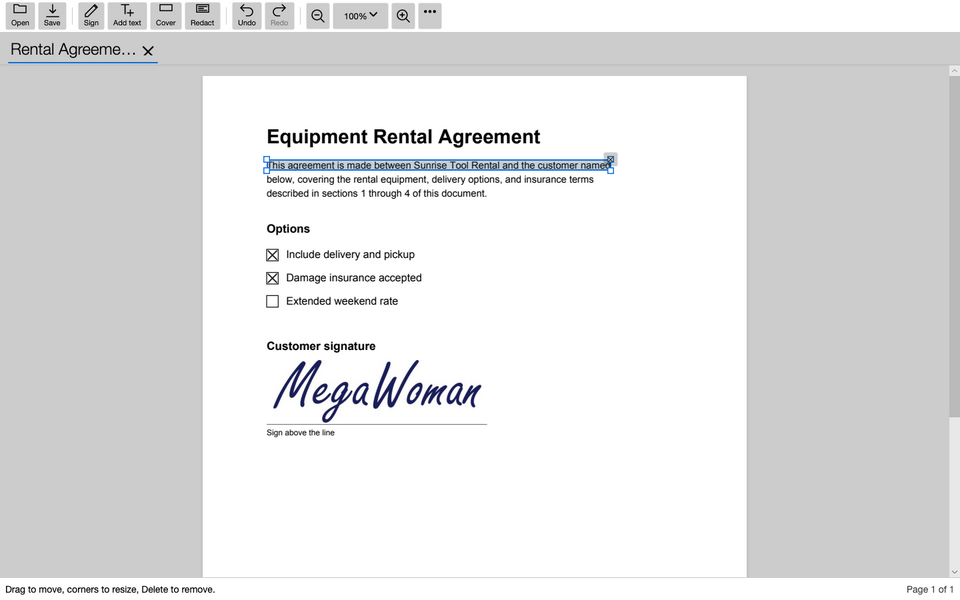
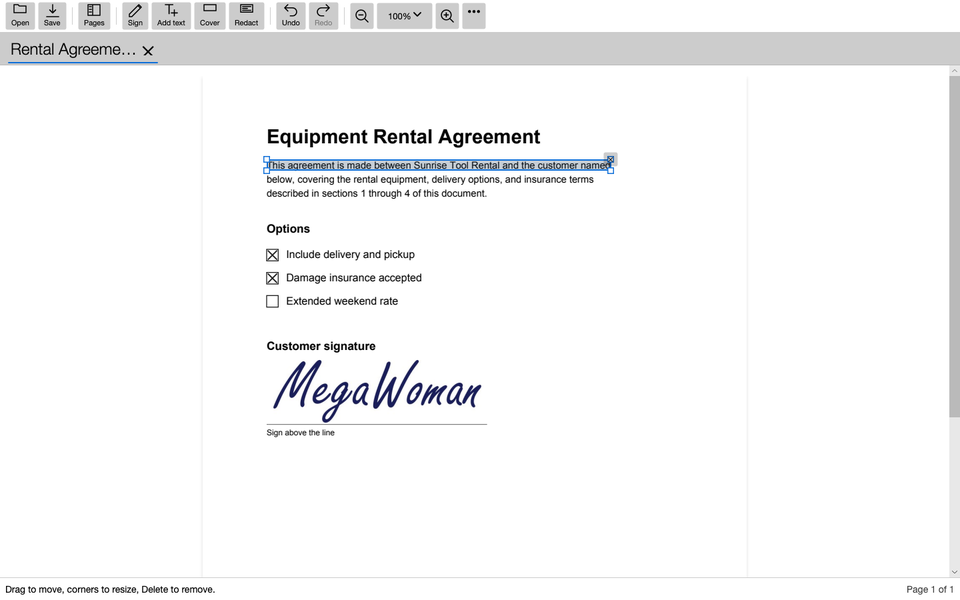
Docs gate (§2.7) for 2.2.0: README, TESTING, website New in 2.2
README: a line for reading mode and the Pages pane, beside tabs and Find, matching
the pattern the 2.1.1 docs gate used for its own headline features.

TESTING: two new "What to test" entries, Reading mode and Pages, ahead of the
existing Save As -> Markdown entry (headline features lead, per Dave's #613
ordering). Also drops "No page add/remove/reorder, no merging — out of scope for
1.0" from Known limitations — 2.2's page tools (rotate, delete, reorder, insert
blank, insert from a file, extract) make that line false. Left the rest of
TESTING.md, including the corpus-battery run log, untouched — another agent is
adding the thirteenth (release-commit) gate run there tonight.

Website (website/megapdf/index.html), not deployed (§3, website is a post-release
step):
- New in 2.2 above New in 2.1 (now the dimmed "prev" block): reading mode, page
  tools, zoom anchored on the focal point, the iPad's own toolbar. Dropped the
  New in 2.0 block entirely rather than carrying three generations — matches "a
  New in 2.2 block above the previous release's" literally, and the .whatsnew.prev
  CSS only styles one dimmed tier. "Very large PDFs" and "one row of tools" (2.0
  items with nothing newer repeating them) are the one real loss; flagged for
  Dave rather than invented back in.
- shot-desktop.png replaced with the 2.2 Mac capture set's redact pose
  (docs/qa/captures-2.2/macos-screenshots/en/light-06-redact.png, Lanczos to
[…]

diff --git a/website/megapdf/index.html b/website/megapdf/index.html
@@ -192,7 +192,41 @@
             </div>
         </section>
 
-        <section class="whatsnew" aria-label="New in MegaPDF 2.1">
+        <section class="whatsnew" aria-label="New in MegaPDF 2.2">
+            <h2 class="sec">New in 2.2</h2>
+            <div class="features">
+                <article class="feature">
+                    <h3><span class="dot">◐</span> Reading mode</h3>
+                    <p>One tap or click takes the toolbars — and the side pane on the
+                       desktops — off the screen and leaves the page. A small bar carries
+                       the page number and the way back. Page colours sit beside it:
+                       Normal, Sepia for a long read, or Night for a dark room — and
+                       <em>Open documents in reading mode</em> starts every one that way.</p>
+                </article>
+                <article class="feature">
+                    <h3><span class="dot">⊞</span> Page tools</h3>
+                    <p>A Pages pane puts the document's pages in front of you: rotate
+                       one that was scanned sideways, delete it, drag pages into a
+                       different order, insert a blank page or another PDF's pages, or
+                       save the pages you picked as a file of their own. Each is one
+                       step in the undo history.</p>
+                </article>
+                <article class="feature">
+                    <h3><span class="dot">⊕</span> Zoom where you're looking</h3>
+                    <p>Zoom now holds the point you're pointing at instead of the
+                       corner of the page, however you ask for it — the menu, the
+                       keyboard, a pinch, or the wheel.</p>
+                </article>
+                <article class="feature">
+                    <h3><span class="dot">▤</span> A toolbar made for the iPad</h3>
+                    <p>The everyday tools now sit in a wide row of their own under the
+                       navigation bar, each with its title beside its icon, instead of
+                       quietly running the iPhone's layout stretched wide.</p>
+                </article>
+            </div>
+        </section>
+
+        <section class="whatsnew prev" aria-label="New in MegaPDF 2.1">
             <h2 class="sec">New in 2.1</h2>
             <div class="features">
                 <article class="feature">
@@ -225,51 +259,6 @@
                        one undo step, Clear all marks drops every mark at once, and a
                        mark no longer outlives the document it was made on. Nothing is
                        removed until you save.</p>
-                </article>
-            </div>
-        </section>
-
-        <section class="whatsnew prev" aria-label="New in MegaPDF 2.0">
-            <h2 class="sec">New in 2.0</h2>
-            <div class="features">
-                <article class="feature">
-                    <h3><span class="dot">■</span> Redact, and it really is gone</h3>
-                    <p>Mark what has to come out — a name, an address, a picture — and
-                       MegaPDF takes it out of the file rather than covering it over.
-                       What was underneath is gone: no other app can copy it or search
-                       for it. On the desktop, whiteout (Cover on the Mac) still only
-                       covers, and now says so.</p>
-                </article>
-                <article class="feature">
-                    <h3><span class="dot">✏</span> Fix the document's own text, far more often</h3>
-                    <p>MegaPDF used to refuse a correction when it could not promise the
-                       rest of the page would stay put. It now makes those changes. Over
-                       a 22,000-edit test run, every one of the 112 edits it used to
-                       refuse goes through, and none of them disturbs the page.</p>
-                </article>
-                <article class="feature">
-                    <h3><span class="dot">⧉</span> Very large PDFs</h3>
-                    <p>A 2.5 GB file used to take a minute to open and gigabytes of
-                       memory. It now opens straight away. Banner-size pages measure at
-                       their real size, and pages full of pictures draw several times
-                       faster.</p>
-                </article>
-                <article class="feature">
-                    <h3><span class="dot">🔑</span> Protected PDFs</h3>
-                    <p>Open one with its password. If its owner restricted what may be
-                       changed, MegaPDF respects that and says so, and the owner password
-                       unlocks it. You can also set a password on a document, change it,
-                       or remove it.</p>
-                </article>
-                <article class="feature">
-                    <h3><span class="dot">▤</span> One row of tools</h3>
-                    <p>The toolbar is a single row, with the pickers appearing beside the
-                       tool they belong to and everything else under More.</p>
-                </article>
-                <article class="feature">
-                    <h3><span class="dot">🇫🇷</span> MegaPDF speaks French</h3>
-                    <p>Canadian and European French throughout the app. It follows your
-                       device's language.</p>
                 </article>
             </div>
         </section>

diff --git a/TESTING.md b/TESTING.md
@@ -38,6 +38,20 @@ unsaved changes in two tabs and you should be asked about each; answer Cancel on
 second and the first must still be there, edits and all. Kill the app with three tabs
 open and the next launch should offer to restore each of them, into its own tab.
 
+**Reading mode** — the View menu, or **Ctrl+H**, takes the toolbars and the side pane
+off the screen and leaves the page. A small floating bar carries the page number and
+the way back; click the page number to jump to one directly. Esc (or the bar's own
+button) returns to the normal view. Settings (⚙) has page colours — **Normal**,
+**Sepia** for a long read, **Night** for a dark room (night inverts pictures too,
+which is deliberate) — and **Open documents in reading mode**, which should make
+every document you open afterward start this way.
+
+**Pages** — the Pages button opens a pane of page thumbnails. Rotate a page that was
+scanned sideways, delete one, drag pages into a different order, insert a blank page,
+insert another PDF's pages, or save the pages you picked out as a file of their own.
+Each of those is one step in the undo history — Ctrl+Z should put the document back
+exactly as it was, one operation at a time.
+
 **Save As → Markdown** — Save As offers **Markdown document** beside PDF document.
 Pick it and you get the document's text as a `.md` file: headings, paragraphs, lists,
 and the values you filled in. It is an export, not a save: the busy strip says
@@ -148,7 +162,6 @@ Scroll through a long document; pages should appear as you reach them.
 - Editing text sometimes substitutes a similar font, with a notice — expected when
   the document doesn't embed a complete font.
 - Password-protected PDFs show an error instead of a password prompt.
-- No page add/remove/reorder, no merging — out of scope for 1.0.
 - **Redact refuses rather than half-finishes.** Some documents draw part of a page from a
   shared block MegaPDF cannot take apart safely; marking inside one gets "Nothing was
   removed" and an explanation. Removing nothing is the deliberate choice: a file that

diff --git a/README.md b/README.md
@@ -19,6 +19,10 @@ Also included, because long documents need it: **Find** (the toolbar button, or
 walks through them. Documents open as **tabs** in one window on Windows, the Mac
 and Linux, and a PDF opened from the file manager joins the window you already have.
 
+**Reading mode** takes the toolbars off the screen and leaves the page, in Normal,
+Sepia or Night colours, on every platform. The **Pages** pane rotates, deletes,
+reorders, inserts and extracts pages — each a single undo step.
+
 Also on the command line: `megapdf-cli extract file.pdf` writes the text;
 `--format md` writes Markdown. It ships in every Linux package (on `PATH`), and
 for Windows and macOS as a zip on the releases page (`windows-cli-v*`,
